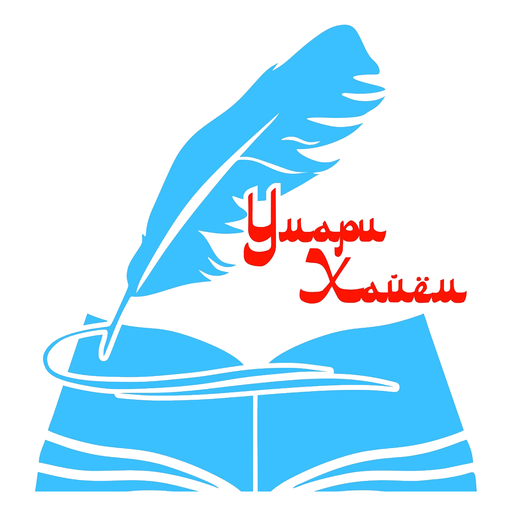
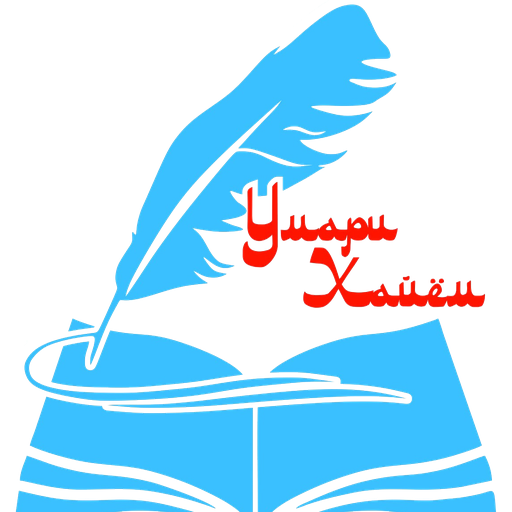
Значок во вкладке без белого фона (прозрачный)
Claude-Session: https://claude.ai/code/session_014BL64vkQDFh9yUW39gKtbn

Changed region(s): [[0.0312, 0.0, 0.9688, 1.0], [0.5312, 0.1875, 0.5625, 0.2188]]

diff --git a/sw.js b/sw.js
@@ -1,7 +1,7 @@
 // Умари Хайём — сервис-воркер.
 // Страница: всегда пытаемся взять свежую из сети; если сеть не ответила за 3 секунды — показываем сохранённую копию.
 // Фото, миниатюры, иконки, шрифты: качаются один раз и дальше берутся из памяти телефона.
-var CACHE = "uh-app-v7", IMG = "uh-img-v1";
+var CACHE = "uh-app-v8", IMG = "uh-img-v1";
 var CORE = ["manifest.json", "favicon.ico", "icon-32.png", "icon-16.png", "icon-192.png", "icon-512.png", "icon-maskable-512.png", "apple-touch-icon.png", "logo.png"];
 self.addEventListener("install", function (e) {
   e.waitUntil(caches.open(CACHE).then(function (c) { return c.addAll(CORE); }).catch(function () {}).then(function () { return self.skipWaiting(); }));
